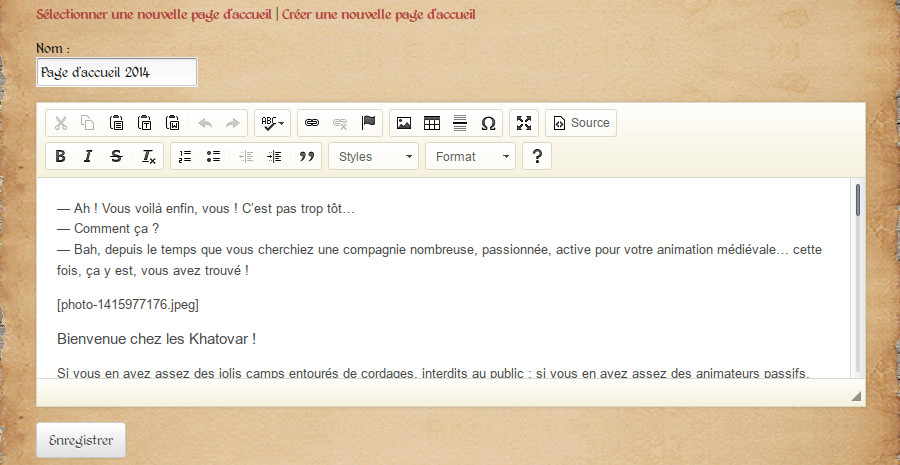
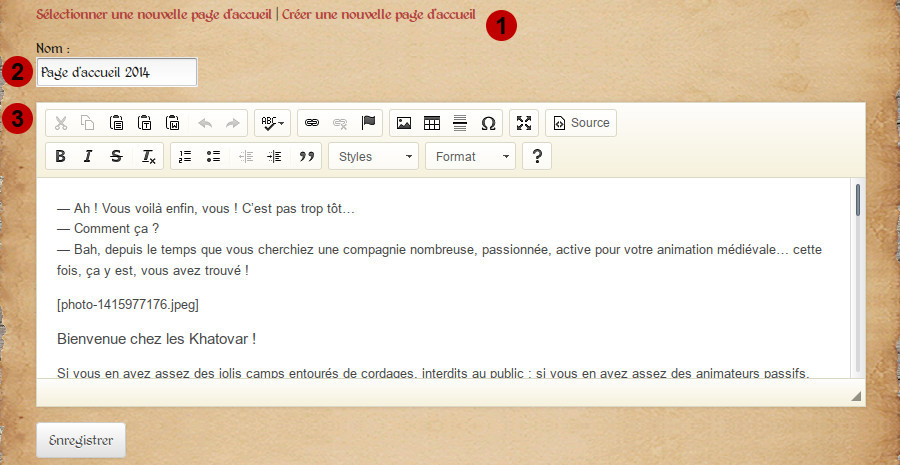
Some corrections in documentation.

Changed region(s): [[0.0, 0.1204, 0.0622, 0.3011], [0.5289, 0.0, 0.5911, 0.0903]]

diff --git a/src/Khatovar/WebBundle/Resources/doc/edit-home.rst b/src/Khatovar/WebBundle/Resources/doc/edit-home.rst
@@ -9,7 +9,7 @@ manières. Vous le pouvez directement depuis la page d'accueil actuelle, comme
 vous l'avez sans doute remarqué en lisant l'introduction (la capture d'écran est
 remise :ref:`ci-dessous <home-edit-links>`). Le lien du milieu permet cela. Le second à
 droite permet l'édition de la page courante (mais nous y reviendrons un peu plus
-loin), et un troisième lien à gauche permet d'accéder à la liste des toutes les pages
+loin), et un troisième lien à gauche permet d'accéder à la liste de toutes les pages
 d'accueil.
 
 .. _home-edit-links:
@@ -40,7 +40,7 @@ liens, l'un pour éditer la page, l'un pour la supprimer.
    *La page permettant de gérer les pages d'accueil.*
 
 Comme pour la suppression de photo, un message de confirmation vous sera renvoyé
-pour éviter tout effacement accidentel. Notez qu'il n'y a pour l'instant pas
+pour éviter toute suppression accidentelle. Notez qu'il n'y a pour l'instant pas
 de possibilité de rétablir un élément effacé. Toute photo ou page supprimée l'est
 définitivement. Soyez donc sûr de votre choix !
 
@@ -49,12 +49,12 @@ définitivement. Soyez donc sûr de votre choix !
 
 Là aussi, nous venons de voir qu'il était possible d'atteindre l'éditeur de
 plusieurs manières : soit directement depuis les liens présents en haut de la
-page d'accueil active, soit depuis le listage de toutes les pages d'accueil
+page d'accueil active, soit depuis la liste de toutes les pages d'accueil
 enregistrées (permettant donc d'éditer n'importe laquelle de ces pages, y compris
 la page active).
 
 Vous arrivez alors sur la page :ref:`ci-dessous <homepage-edit>`. Et découvrez
-au passage une troisième manière de créer une page d'accueil en **1**.
+au passage une troisième manière de créer une page d'accueil au point **1**.
 
 .. _homepage-edit:
 .. figure:: images/homepage-edit.jpg
@@ -62,9 +62,9 @@ au passage une troisième manière de créer une page d'accueil en **1**.
 
    *L'éditeur pour page d'accueil.*
 
-Vous devez évidemment donner un nom à votre page (en **2**) pour la retrouver
+Vous devez évidemment donner un nom à votre page (point **2**) pour la retrouver
 facilement dans la liste des pages existantes. L'édition de la page elle-même
-est assurée (en **3**) par un traitement de texte, permettant de mettre en
+est assurée (point **3**) par un traitement de texte, permettant de mettre en
 forme votre contenu selon vos désirs : gras, italique, taille du texte, titres…
 Je ne rentrerai pas ici dans les détails de son fonctionnement, très intuitif,
 le plus simple est encore de l'essayer.
@@ -79,7 +79,7 @@ Insérer des photos
 L'insertion des photos dans les pages d'accueil mérite une explication détaillée.
 En effet, celle-ci n'est pas gérée directement par l'éditeur, mais depuis le
 panneau latéral. Sur les autres pages, les photos présentées dans le panneau
-sont seulement accompagnées d'un numéro les identifiants.
+sont seulement accompagnées d'un numéro les identifiant.
 
 Pour la page d'accueil en revanche, vous trouverez le format de la photo, un
 lien pour changer ce format (pour plus de détail, je vous laisse relire la partie

diff --git a/src/Khatovar/WebBundle/Resources/doc/upload.rst b/src/Khatovar/WebBundle/Resources/doc/upload.rst
@@ -1,9 +1,9 @@
 Téléversement et gestion des photos
 ===================================
 
-Cette page détaille le fonctionnement du gestionnaire de photo du site. Les
-informations sont en priorité écrite pour les éditeurs et administrateurs, mais
-sont pour l'essentiel également valable pour les utilisateurs ordinaires. Les
+Cette page détaille le fonctionnement du gestionnaire de photos du site. Les
+informations sont en priorité écrites pour les éditeurs et administrateurs, mais
+sont pour l'essentiel également valables pour les utilisateurs ordinaires. Les
 sections inutiles et les différences sont indiquées tout au long des explications.
 
 Présentation
@@ -107,7 +107,7 @@ Téléversement de photos pour la page d'accueil
 ^^^^^^^^^^^^^^^^^^^^^^^^^^^^^^^^^^^^^^^^^^^^^^
 
 Votre premier choix consiste déterminer à quelle page d'accueil vous souhaitez
-liér la photo (voir la capture d'écran :ref:`ci-dessous <page-photo-edit>`,
+lier la photo (voir la capture d'écran :ref:`ci-dessous <page-photo-edit>`,
 point 2).
 
 .. _page-photo-edit:
@@ -130,7 +130,7 @@ Il est possible de changer cette taille directement depuis le panneau latéral
 affichera les photos de la page sur laquelle vous vous trouvez). Vous trouverez
 en effet sous chaque photo, outre le code destiné à l'insertion des photos
 (voir la section :doc:`Édition des pages d’accueil <edit-home>` pour plus de
-détails), le format de l'image, et un lien revoyant directement sur la page
+détails), le format de l'image, et un lien renvoyant directement sur la page
 permettant d'éditer les informations de la photo (:ref:`capture d'écran ci-dessous <photo-home-edit>`).
 
 .. _photo-home-edit:
@@ -177,7 +177,7 @@ obtiendrez une liste de toutes les photos, classées par page d'appartenance.
 Sous chaque photo, vous trouverez deux liens pour respectivement éditer et
 supprimer la photo (:ref:`capture d'écran ci-dessous <photo-edit-links>`). Lors
 de la suppression, un message de confirmation vous demandera de confirmer votre
-choix pour éviter tout effacement non désiré.
+choix pour éviter toute suppression non désirée.
 
 .. _photo-edit-links:
 .. figure:: images/photo-edit-links.jpg

diff --git a/src/Khatovar/WebBundle/Resources/doc/edition.rst b/src/Khatovar/WebBundle/Resources/doc/edition.rst
@@ -16,7 +16,7 @@ couleur…) des différentes pages est définie par l'application elle-même, vo
 n'avez donc pas à vous en soucier lors de l'édition, et n'avez à vous concentrer
 que sur le contenu.
 
-Sauf pour la page d'accueil, pour laquelle vous disposez d'une plus grande
-souplesse de mise en forme. Dans son cas, vous avez donc accès à un véritable
+Pour la page d'accueil, vous disposez d'une plus grande
+souplesse de mise en forme, et avez accès à un véritable
 éditeur façon traitement de texte, alors que les autres pages ne consistent
-qu'en une succession de case de texte brut à remplir.
+qu'en une succession de cases de texte brut à remplir.

diff --git a/src/Khatovar/WebBundle/Resources/doc/intro.rst b/src/Khatovar/WebBundle/Resources/doc/intro.rst
@@ -53,7 +53,7 @@ sujet disponibles dans la section :doc:`Téléversement et gestion des photos <u
    *Le bouton permettant d'accéder au panneau latéral*
 
 Enfin, tout en bas de la page, sur le repli du rouleau de parchemin est
-habituellement affiché le Copiright de la compagnie. À la place, vous pouvez
+habituellement affiché le Copyright de la compagnie. À la place, vous pouvez
 maintenant voir quelques liens (:ref:`capture d'écran ci-dessous <admin-links>`).
 Le lien à gauche vous renvoie sur la page de votre compte utilisateur (la même
 page est accessible, de la même manière, depuis l'application Documents). Le

diff --git a/src/Khatovar/WebBundle/Resources/doc/edit-member.rst b/src/Khatovar/WebBundle/Resources/doc/edit-member.rst
@@ -18,7 +18,7 @@ nouveau membre (capture d'écran :ref:`ci-dessous <member-create>`).
 De plus, chaque page de membre dispose de liens permettant d'éditer et de
 supprimer la page (capture d'écran :ref:`ci-dessous <member-links>`). Toute
 suppression de page renverra un message de confirmation avant que la suppression
-ne soit effective, afin d'éviter un effacement non désiré.
+ne soit effective, afin d'éviter une suppression non désirée.
 
 .. _member-links:
 .. figure:: images/member-links.jpg

diff --git a/src/Khatovar/WebBundle/Resources/doc/regular-users.rst b/src/Khatovar/WebBundle/Resources/doc/regular-users.rst
@@ -1,5 +1,5 @@
-Utilisateurs stadards
-=====================
+Utilisateurs standards
+======================
 
 Édition de la page de membre
 ----------------------------
